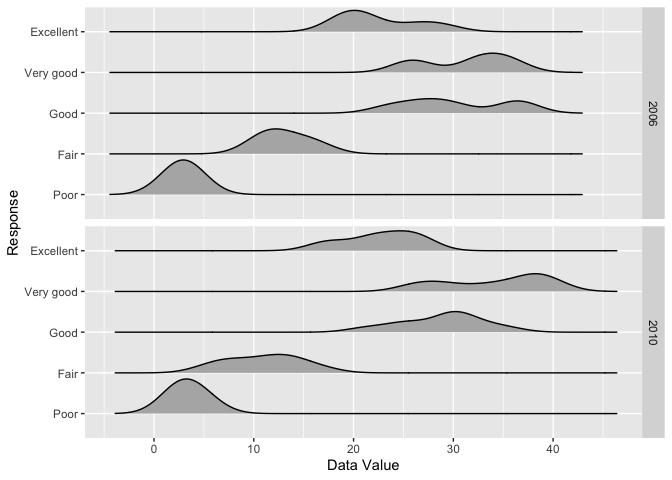
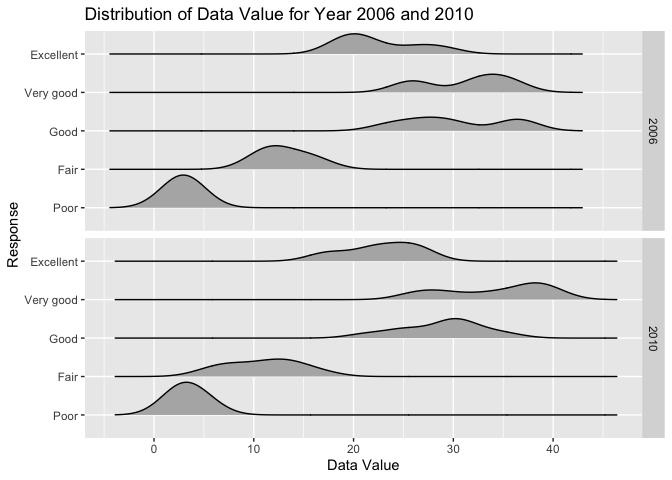
Updated titles to plots

diff --git a/pm8105_hw3_pm3148.md b/pm8105_hw3_pm3148.md
@@ -284,7 +284,9 @@ brfss_cln%>%
   mutate(state_avg = mean(data_value, na.rm=TRUE))%>%
   ggplot(aes(x=year, y = state_avg, col = locationabbr)) +
   geom_line() +
-  xlab('Year') + ylab('State Average Value')+
+  xlab('Year') + 
+  ylab('State Average Value')+
+  ggtitle("Average Value across Year by State")+
   viridis::scale_color_viridis(
     name = "Location", 
     discrete = TRUE
@@ -318,7 +320,8 @@ brfss_cln%>%
   geom_density_ridges(scale = 0.85) +
   facet_grid(rows=vars(year))+
   xlab('Data Value')+
-  ylab('Response')
+  ylab('Response')+
+  ggtitle("Distribution of Data Value for Year 2006 and 2010")
 ```
 
     ## Picking joint bandwidth of 2.1
@@ -411,8 +414,9 @@ accel%>%
   geom_line() +
   xlab('Minute of Day')+
   ylab('Activity Count')+
+  ggtitle("Activity Count per Minute")+
   viridis::scale_color_viridis(
-    name = "Location", 
+    name = "Day of Week", 
     discrete = TRUE
   )
 ```
